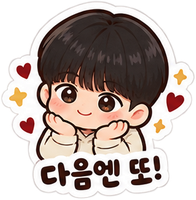
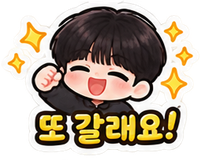
새 스티커 25종 교체, 별점 항목별 이유 질문, 질문 다양화
Claude-Session: https://claude.ai/code/session_0182RkLH2s9FgvYRPuFSwTt5

diff --git a/index.html b/index.html
@@ -358,68 +358,95 @@ const RATE = {
   exhibit:[['satisfaction','만족도'],['works','작품'],['curation','구성·동선'],['space','공간·연출'],['value','가성비']],
   escape: [['satisfaction','만족도'],['direction','연출'],['story','스토리'],['interior','인테리어'],['puzzle','문제 구성'],['difficulty','난이도'],['fear','공포도'],['activity','활동성']]
 };
+/* 공통으로 쓰는 질문 조각 */
+const VIEW_Q = [
+  { id:'view',  kind:'choice', ask:'좌석 시야는 어땠어요?', options:['완벽 시야 👍','괜찮았어요','살짝 아쉬움','많이 가렸어요'] },
+  { id:'viewMemo', kind:'text', optional:true, ask:'시야 얘기 한 마디 더?\n(단차, 가림, 거리감, 전광판 등)', ph:'예: 단차 좋아서 앞사람 머리 안 보였음' }
+];
+const MAIN_REVIEW = { id:'review', kind:'text', ask:'자, 이제 전체적으로 어땠어요?\n생각나는 대로 막 말해 주세요 ㅎㅎ', ph:'길게 써도 좋아요. 말투 그대로 살려서 글에 넣어 드려요' };
+const RATINGS_Q = { id:'ratings', kind:'ratings', ask:'별점 매겨 볼까요? ⭐ (5점 만점)\n다음에 항목별로 이유도 물어볼게요!' };
 const QUESTIONS = {
   musical: [
+    { id:'firstTime', kind:'choice', ask:'이 작품은 처음 봤어요?', options:['처음 봤어요','N번째 관람이에요'] },
+    { id:'whyPick', kind:'text', optional:true, ask:'이 작품을 보러 가게 된 계기는요?', ph:'예: 넘버가 너무 좋아서 / 친구 추천 / 캐스트 때문에' },
     { id:'seat',  kind:'text', optional:true, ask:'오늘 좌석은 어디였어요?', ph:'예: 1층 B구역 7열' },
-    { id:'view',  kind:'choice', ask:'좌석 시야는 어땠어요?', options:['완벽 시야 👍','괜찮았어요','살짝 아쉬움','많이 가렸어요'] },
-    { id:'viewMemo', kind:'text', optional:true, ask:'시야 얘기 한 마디 더? (단차, 가림 등)', ph:'예: 단차 좋아서 앞사람 머리 안 보였음' },
+    ...VIEW_Q,
     { id:'cast',  kind:'text', optional:true, ask:'오늘 캐스트는 누구였어요?', ph:'예: 홍길동, 김철수, 이영희' },
-    { id:'bestActor',  kind:'text', optional:true, ask:'제일 기억에 남는 배우와 이유는요?', ph:'예: OOO 배우 고음 미쳤음ㅋㅋ' },
-    { id:'bestNumber', kind:'text', optional:true, ask:'가장 좋았던 넘버(노래 제목)는?\n가사는 빼고 제목만!', ph:'예: 넘버 제목' },
-    { id:'review', kind:'text', ask:'전체적으로 어땠어요?\n생각나는 대로 막 말해 주세요 ㅎㅎ', ph:'말투 그대로 살려서 글에 넣어 드려요' },
-    { id:'ratings', kind:'ratings', ask:'별점 매겨 볼까요? ⭐ (5점 만점)' },
+    { id:'bestActor',  kind:'text', optional:true, ask:'제일 기억에 남는 배우와 이유는요?', ph:'예: OOO 배우 고음 미쳤음ㅋㅋ 감정선도 섬세' },
+    { id:'bestNumber', kind:'text', optional:true, ask:'가장 좋았던 넘버(노래 제목)는요?\n가사는 빼고 제목 + 좋았던 이유!', ph:'예: 넘버 제목, 앙상블 합창이 터질 때 소름' },
+    { id:'emotion', kind:'text', optional:true, ask:'감정이 가장 크게 움직인 순간은요?\n(스포 없이 느낌만!)', ph:'예: 2막 후반 조명 바뀌는 순간 눈물 핑' },
+    { id:'expect', kind:'text', optional:true, ask:'보기 전 기대랑 비교하면 어땠어요?', ph:'예: 무거울 줄 알았는데 생각보다 유쾌했음' },
+    MAIN_REVIEW, RATINGS_Q,
+    { id:'preTip', kind:'text', optional:true, ask:'보러 갈 사람에게 미리 알려주고 싶은 팁은요?\n(예습, 줄거리, 오페라글라스, 인터미션 등)', ph:'예: 넘버 2~3곡 미리 듣고 가면 몰입 200%' },
     { id:'rewatch', kind:'choice', ask:'재관람 의사는?', options:['무조건 재관람!','다른 캐스트로 또 볼래요','한 번이면 충분','아직 모르겠어요'] },
     ...COMMON_END
   ],
   concert: [
+    { id:'firstTime', kind:'choice', ask:'이 아티스트 콘서트는 처음이에요?', options:['첫 콘서트예요','두 번 이상 가봤어요'] },
+    { id:'whyPick', kind:'text', optional:true, ask:'이번 공연에 가게 된 계기는요?', ph:'예: 데뷔 때부터 팬 / 친구 따라 입덕 / 티켓팅 성공!' },
     { id:'seat',  kind:'text', optional:true, ask:'오늘 좌석은 어디였어요?', ph:'예: 스탠딩 B구역 / 2층 15구역 3열' },
-    { id:'view',  kind:'choice', ask:'좌석 시야는 어땠어요?', options:['완벽 시야 👍','괜찮았어요','살짝 아쉬움','많이 가렸어요'] },
-    { id:'viewMemo', kind:'text', optional:true, ask:'시야 얘기 한 마디 더? (전광판, 돌출 무대 등)', ph:'예: 돌출 무대 바로 앞이라 눈앞에서 봄ㅋㅋ' },
+    ...VIEW_Q,
     { id:'cast',  kind:'text', optional:true, ask:'출연 아티스트·게스트는 누구였어요?', ph:'예: 아티스트 이름, 깜짝 게스트' },
-    { id:'bestSong',  kind:'text', optional:true, ask:'최고의 무대(곡 제목)는?\n가사는 빼고 제목만!', ph:'예: 곡 제목 + 좋았던 이유' },
-    { id:'bestScene', kind:'text', optional:true, ask:'잊지 못할 순간이 있었나요?\n(떼창, 멘트, 이벤트 등)', ph:'예: 마지막 곡 떼창에서 울컥함ㅠ' },
-    { id:'review', kind:'text', ask:'전체적으로 어땠어요?\n생각나는 대로 막 말해 주세요 ㅎㅎ', ph:'말투 그대로 살려서 글에 넣어 드려요' },
+    { id:'bestSong',  kind:'text', optional:true, ask:'최고의 무대(곡 제목)는요?\n가사는 빼고 제목 + 좋았던 이유!', ph:'예: 곡 제목, 편곡이 완전 달라서 소름' },
+    { id:'bestScene', kind:'text', optional:true, ask:'잊지 못할 순간이 있었나요?\n(떼창, 이벤트, 깜짝 무대 등)', ph:'예: 마지막 곡 떼창에서 울컥함ㅠ' },
+    { id:'ment', kind:'text', optional:true, ask:'기억에 남는 멘트나 토크가 있었어요?\n(요약해서!)', ph:'예: 다음 투어 때 꼭 다시 오겠다고 함' },
+    { id:'fanEvent', kind:'text', optional:true, ask:'응원법·관객 분위기는 어땠어요?', ph:'예: 응원봉 파도타기 장관이었음' },
+    MAIN_REVIEW, RATINGS_Q,
     { id:'tipInfo', kind:'text', optional:true, ask:'다음에 갈 사람을 위한 꿀팁은?\n(MD 줄, 입장, 교통 등)', ph:'예: MD는 전날 가야 안 기다림' },
-    { id:'ratings', kind:'ratings', ask:'별점 매겨 볼까요? ⭐ (5점 만점)' },
+    { id:'venueInfo', kind:'text', optional:true, ask:'공연장 시설은 어땠어요?\n(화장실, 물품보관, 대기 공간 등)', ph:'예: 물품보관함 금방 차니까 일찍 가기' },
     { id:'rewatch', kind:'choice', ask:'다음 공연도 갈 거예요?', options:['다음 투어 무조건!','막콘도 가고 싶어요','한 번이면 충분','아직 모르겠어요'] },
     ...COMMON_END
   ],
   play: [
+    { id:'firstTime', kind:'choice', ask:'이 작품은 처음 봤어요?', options:['처음 봤어요','N번째 관람이에요'] },
+    { id:'whyPick', kind:'text', optional:true, ask:'이 연극을 보러 가게 된 계기는요?', ph:'예: 평이 좋아서 / 배우 팬이라서' },
     { id:'seat',  kind:'text', optional:true, ask:'오늘 좌석은 어디였어요?', ph:'예: C열 5번' },
-    { id:'view',  kind:'choice', ask:'좌석 시야는 어땠어요?', options:['완벽 시야 👍','괜찮았어요','살짝 아쉬움','많이 가렸어요'] },
+    ...VIEW_Q,
     { id:'cast',  kind:'text', optional:true, ask:'오늘 캐스트는 누구였어요?', ph:'예: 홍길동, 김철수' },
     { id:'bestActor', kind:'text', optional:true, ask:'제일 기억에 남는 배우와 이유는요?', ph:'예: OOO 배우 눈빛 연기 소름' },
-    { id:'bestScene', kind:'text', optional:true, ask:'가장 기억에 남는 장면은? (스포 없이!)', ph:'예: 후반부 독백 장면' },
-    { id:'review', kind:'text', ask:'전체적으로 어땠어요?\n생각나는 대로 막 말해 주세요 ㅎㅎ', ph:'말투 그대로 살려서 글에 넣어 드려요' },
-    { id:'ratings', kind:'ratings', ask:'별점 매겨 볼까요? ⭐ (5점 만점)' },
+    { id:'bestScene', kind:'text', optional:true, ask:'가장 기억에 남는 장면은요? (스포 없이!)', ph:'예: 후반부 독백 장면' },
+    { id:'emotion', kind:'text', optional:true, ask:'웃음·눈물·긴장… 감정이 크게 움직인 순간은요?', ph:'예: 중반 코믹 장면에서 객석 전체가 빵 터짐ㅋㅋ' },
+    { id:'message', kind:'text', optional:true, ask:'보고 나서 마음에 남은 생각이나 메시지가 있다면?', ph:'예: 가족한테 연락하고 싶어지는 극' },
+    { id:'expect', kind:'text', optional:true, ask:'보기 전 기대랑 비교하면 어땠어요?', ph:'예: 소극장이라 걱정했는데 몰입감 최고' },
+    MAIN_REVIEW, RATINGS_Q,
+    { id:'preTip', kind:'text', optional:true, ask:'보러 갈 사람에게 미리 알려주고 싶은 팁은요?\n(줄거리 예습, 관객 참여, 좌석 등)', ph:'예: 앞줄은 관객 참여 있을 수 있음ㅋㅋ' },
     { id:'rewatch', kind:'choice', ask:'재관람 의사는?', options:['무조건 재관람!','다른 캐스트로 또 볼래요','한 번이면 충분','아직 모르겠어요'] },
     ...COMMON_END
   ],
   movie: [
+    { id:'whyPick', kind:'text', optional:true, ask:'이 영화를 고른 이유는요?', ph:'예: 예고편에 꽂혀서 / 감독 팬 / 평점 보고' },
     { id:'format', kind:'choice', ask:'어떤 관에서 봤어요?', options:['일반관','IMAX','4DX','돌비 시네마','기타 특별관'] },
     { id:'seat',   kind:'text', optional:true, ask:'좌석은 어디쯤이었어요?', ph:'예: G열 가운데' },
-    { id:'bestScene', kind:'text', optional:true, ask:'제일 기억에 남는 장면은? (스포 없이!)', ph:'예: 중반 추격 장면 음향 대박' },
+    { id:'bestScene', kind:'text', optional:true, ask:'제일 기억에 남는 장면은요? (스포 없이!)', ph:'예: 중반 추격 장면 음향 대박' },
     { id:'bestActor', kind:'text', optional:true, ask:'눈에 띈 배우가 있었나요?', ph:'예: OOO 연기 진짜 좋았음' },
-    { id:'review', kind:'text', ask:'전체적으로 어땠어요?\n생각나는 대로 막 말해 주세요 ㅎㅎ', ph:'말투 그대로 살려서 글에 넣어 드려요' },
+    { id:'emotion', kind:'text', optional:true, ask:'웃음·눈물·긴장… 감정이 크게 움직인 순간은요?', ph:'예: 후반부에 극장 전체가 숨죽임' },
+    { id:'message', kind:'text', optional:true, ask:'보고 나서 남은 생각이나 메시지가 있다면?', ph:'예: 오래 여운이 남는 엔딩' },
+    { id:'expect', kind:'text', optional:true, ask:'보기 전 기대랑 비교하면 어땠어요?', ph:'예: 예고편보다 훨씬 감성적이었음' },
+    MAIN_REVIEW,
     { id:'cookie', kind:'choice', ask:'쿠키 영상 있었어요?', options:['쿠키 있음 (끝까지 앉아 있기!)','쿠키 없음','확인 못 했어요'] },
-    { id:'ratings', kind:'ratings', ask:'별점 매겨 볼까요? ⭐ (5점 만점)' },
-    { id:'rewatch', kind:'choice', ask:'N차 관람 의사는?', options:['N차 관람 각!','OTT로 다시 볼래요','한 번이면 충분'] },
+    RATINGS_Q,
+    { id:'preTip', kind:'text', optional:true, ask:'보기 전에 알아두면 좋은 점은요?\n(전편, 원작, 관 추천 등)', ph:'예: 1편 안 봐도 되지만 보면 더 재밌음' },
+    { id:'rewatch', kind:'choice', ask:'N차 관람 의사는?', options:['N차 관람 각!','OTT로 다시 볼래요','한 번이면 충분','아직 모르겠어요'] },
     ...COMMON_END
   ],
   exhibit: [
+    { id:'whyPick', kind:'text', optional:true, ask:'이 전시에 가게 된 계기는요?', ph:'예: 인스타에서 보고 / 좋아하는 작가라서' },
     { id:'companion', kind:'choice', ask:'누구랑 다녀왔어요?', options:['혼자','친구와','연인과','가족과','아이와'] },
     { id:'stay', kind:'choice', ask:'관람 시간은 얼마나 걸렸어요?', options:['30분 이내','1시간 정도','1시간 반','2시간 이상'] },
     { id:'crowd', kind:'choice', ask:'사람은 많았어요?', options:['한산했어요','적당했어요','붐볐어요','줄 서서 봤어요'] },
     { id:'photoRule', kind:'choice', ask:'사진 촬영은 가능했어요?', options:['전체 촬영 가능','일부 구역만 가능','촬영 불가'] },
     { id:'bestWork', kind:'text', optional:true, ask:'가장 인상 깊은 작품과 이유는요?', ph:'예: 마지막 방 미디어아트, 빛이 쏟아지는 느낌' },
+    { id:'section', kind:'text', optional:true, ask:'제일 좋았던 공간·섹션은요?', ph:'예: 2층 거울방, 사진도 제일 잘 나옴' },
     { id:'docent', kind:'choice', optional:true, ask:'도슨트나 오디오 가이드는요?', options:['도슨트 들었어요','오디오 가이드 썼어요','안 썼어요'] },
-    { id:'review', kind:'text', ask:'전체적으로 어땠어요?\n생각나는 대로 막 말해 주세요 ㅎㅎ', ph:'말투 그대로 살려서 글에 넣어 드려요' },
+    { id:'feel', kind:'text', optional:true, ask:'관람하고 나서 든 생각이나 기분은요?', ph:'예: 마음이 차분해지고 힐링 됐음' },
+    MAIN_REVIEW, RATINGS_Q,
+    { id:'goodsInfo', kind:'text', optional:true, ask:'굿즈샵은 어땠어요? 산 게 있다면?', ph:'예: 엽서 세트 샀는데 퀄 좋음, 가격은 좀 셈' },
     { id:'tipInfo', kind:'text', optional:true, ask:'다음에 갈 사람을 위한 꿀팁은?\n(할인, 주차, 한산한 시간 등)', ph:'예: 평일 오전이 제일 한산함' },
-    { id:'ratings', kind:'ratings', ask:'별점 매겨 볼까요? ⭐ (5점 만점)' },
-    { id:'rewatch', kind:'choice', ask:'또 가고 싶어요?', options:['또 가고 싶어요!','한 번이면 충분','지인에게 추천할래요'] },
+    { id:'rewatch', kind:'choice', ask:'또 가고 싶어요?', options:['또 가고 싶어요!','한 번이면 충분','지인에게 추천할래요','아직 모르겠어요'] },
     ...COMMON_END
   ],
   escape: [
+    { id:'whyPick', kind:'text', optional:true, ask:'이 테마를 고른 이유는요?', ph:'예: 인생테마 리스트에 있어서 / 스토리 평이 좋아서' },
     { id:'players', kind:'choice', ask:'몇 명이서 했어요?', options:['2인','3인','4인','5인+','혼방'] },
     { id:'career',  kind:'text', optional:true, ask:'방탈출 경력도 적어 둘까요?', ph:'예: 200방 이상 · 50방 이상' },
     { id:'result',  kind:'choice', ask:'결과는?! 🥁', options:['탈출 성공 🏆','탈출 실패'] },
@@ -427,12 +454,40 @@ const QUESTIONS = {
     { id:'remain',  kind:'text', optional:true, ask:'남은 시간은요?', ph:'예: 5분 30초 (기록 안 했으면 건너뛰기)', cond:a=>a.result==='탈출 성공 🏆' },
     { id:'themeTime', kind:'number', optional:true, ask:'테마 시간은 총 몇 분이었어요?', unit:'분', ph:'60' },
     { id:'recommendOK', kind:'choice', ask:'추천 여부는?', options:['추천해요','보통이에요','비추천해요'] },
-    { id:'ratings', kind:'ratings', ask:'항목별 점수! ⭐ (5점 만점, 0 = 없음)' },
-    { id:'review', kind:'text', ask:'스포 없이 솔직하게 어땠어요?\n(문제·장치·반전·방 순서는 빼고!)', ph:'말투 그대로 살려서 글에 넣어 드려요' },
+    { id:'firstImpression', kind:'text', optional:true, ask:'들어가자마자 첫인상은 어땠어요?\n(스포 없이 분위기만!)', ph:'예: 문 열자마자 와… 소리 나옴' },
+    { id:'bestMoment', kind:'text', optional:true, ask:'가장 짜릿했던 순간은요?\n(장치·정답은 빼고 느낌만!)', ph:'예: 막혔다가 한 번에 풀리는 순간 소름' },
+    MAIN_REVIEW, RATINGS_Q,
+    { id:'staff', kind:'text', optional:true, ask:'매장이나 직원 응대는 어땠어요?', ph:'예: 브리핑 친절, 대기실 깔끔' },
     { id:'tip', kind:'text', optional:true, ask:'인원 팁이 있다면?', ph:'예: 2인은 빠듯, 3인 추천' },
+    { id:'clothes', kind:'text', optional:true, ask:'복장이나 준비물 팁은요?', ph:'예: 활동성 있으니 바지 추천' },
     ...COMMON_END
   ]
 };
+/* 별점 다음에 항목별로 이유를 묻는 질문 (점수를 넣어서 자동으로 만들어짐) */
+const WHY = {
+  acting:   ['노래·연기는 어땠어요?', '예: 성량 압도적, 감정선이 섬세해서 몰입됨'],
+  stage:    ['무대·연출에서 기억나는 건요?', '예: 조명 전환, 무대 장치, 세트 디테일'],
+  story:    ['스토리는 어땠어요? (스포 없이!)', '예: 전개가 빠르고 개연성 탄탄, 결말 여운'],
+  sound:    ['음향은 어땠어요?', '예: 대사 잘 들림, 밴드 소리 웅장'],
+  live:     ['라이브 실력은요?', '예: 음원보다 더 잘함, 고음 안정적'],
+  setlist:  ['셋리스트 흐름은 어땠어요?', '예: 신곡·명곡 균형 좋음, 앵콜 구성 최고'],
+  av:       ['영상·음향은요?', '예: IMAX 화면 꽉 참, 사운드 진동 대박'],
+  direction:['연출은 어땠어요? (스포 없이!)', '예: 효과음·조명 타이밍이 몰입감 살려줌'],
+  interior: ['인테리어는요?', '예: 소품 디테일 미쳤음, 테마 세계관에 들어온 느낌'],
+  puzzle:   ['문제 구성은요? (정답·장치는 빼고!)', '예: 참신한 문제 많고 자물쇠 비율 적당'],
+  difficulty:['난이도는 어땠어요?', '예: 초반 쉽고 후반에 확 어려워짐, 입문자는 힌트 필수'],
+  fear:     ['공포도는요?', '예: 깜놀은 없고 분위기로 무서움, 극쫄도 가능'],
+  activity: ['활동성은요?', '예: 많이 움직임, 무릎 조심ㅋㅋ'],
+  works:    ['작품들은 어땠어요?', '예: 작품 수 많고 퀄리티 좋음'],
+  curation: ['구성·동선은요?', '예: 섹션 흐름 자연스럽고 설명 패널 친절'],
+  space:    ['공간·연출은요?', '예: 조명·음악이 작품이랑 잘 어울림'],
+  value:    ['가성비는요?', '예: 이 가격에 이 퀄리티면 만족, 얼리버드 추천']
+};
+function whyQuestions(ev){
+  const R = (ev.answers || {}).ratings; if (!R) return [];
+  return RATE[ev.type].filter(([k]) => k !== 'satisfaction' && R[k] !== undefined && !(['fear','activity'].includes(k) && Number(R[k]) === 0))
+    .map(([k, l]) => { const w = (k === 'acting' && ev.type !== 'musical') ? ['연기는 어땠어요?', '예: 눈빛 연기 소름, 대사 전달력 좋음'] : (WHY[k] || ['어땠어요?', '']); return { id:'why_' + k, kind:'text', optional:true, ask:`${l} ★${Number(R[k]).toFixed(1)}점!\n${w[0]}`, ph:w[1] }; });
+}
 /* 질문 사이에 넣는 짧은 리액션 (답할 때마다 돌아가며 사용) */
 const REACT = ['오 좋아요! ','기록 완료 ✍ ','ㅎㅎ 그렇군요! ','완전 생생해요 👍 ','좋아요, 다음! '];
 
@@ -441,13 +496,14 @@ const REACT = ['오 좋아요! ','기록 완료 ✍ ','ㅎㅎ 그렇군요! '
    --------------------------------------------------------------- */
 const STICKERS = {
   '내돈내산':'naedon', '협찬':'sponsor', '총평':'summary', '꽃길':'flower', '추천해요':'recommend', '아쉬워요':'sorry',
-  '인생작':'best', '눈물 줄줄':'tears', '소름':'chills', '빵 터짐':'lol', '시야 체크':'view', '꿀팁':'tip', '재관람 각':'rewatch',
-  '탈출 성공':'escape_ok', '탈출 실패':'escape_fail', '힌트 찬스':'hint',
-  '콘서트 후기':'concert', '영화 후기':'movie', '방탈출 후기':'escape', '다녀왔어요':'visited', '다음엔 또!':'again'
+  '인생작':'best', '재밌다!':'fun', '힐링중':'healing', '영화보러가요':'gomovie', '콘서트는 못참지!':'goconcert', '방탈출 GO!':'goescape',
+  '고민중...':'thinking', '헉!':'wow', '눈물나...':'tears', '사랑해요':'love', '텅장주의!':'broke', '비추천':'notrec',
+  '또 갈래요!':'again', '별 다섯개!':'fivestar', '공연 후기':'show', '영화 후기':'movie', '콘서트 후기':'concert', '방탈출 후기':'escape', '한줄평':'oneline'
 };
-const TYPE_STICKER = { exhibit:'다녀왔어요', musical:'다녀왔어요', play:'다녀왔어요', concert:'콘서트 후기', movie:'영화 후기', escape:'방탈출 후기' };
+const TYPE_STICKER = { musical:'공연 후기', play:'공연 후기', concert:'콘서트 후기', movie:'영화 후기', escape:'방탈출 후기', exhibit:'힐링중' };
+const GO_STICKER = { movie:'영화보러가요', concert:'콘서트는 못참지!', escape:'방탈출 GO!' };
 const stickerOf = line => { const m = String(line).match(/^\[스티커: (.+)\]$/); return m && STICKERS[m[1]] ? STICKERS[m[1]] : null; };
-const stickerURL = key => new URL(`stickers/${key}.png?v=2`, location.href).href;   // ?v=2: 작게 줄인 새 스티커를 받아오도록
+const stickerURL = key => new URL(`stickers/${key}.png?v=3`, location.href).href;   // ?v=2: 작게 줄인 새 스티커를 받아오도록
 
 /* ---------------------------------------------------------------
    4. 저장소: 일정(localStorage) + 사진(IndexedDB, 실패 시 메모리)
@@ -545,6 +601,9 @@ function softenEnding(core){
   if (/[가-힣]임$/.test(core)){ const base = core.slice(0, -1); return base + (hasBatchim(base.slice(-1)) ? '이에요' : '예요'); }
   for (const [re, rep] of END_RULES) if (re.test(core)) return core.replace(re, rep);
   // 과거형(받침 ㅆ: 쳤·갔·봤·됐…) + 음/다/어 → ~어요  (예: 미쳤음 → 미쳤어요)
+  // X음 (X에 받침) → X았어요/X었어요  예: 남음 → 남았어요
+  const mm = core.match(/([가-힣])음$/);
+  if (mm){ const c = mm[1].charCodeAt(0) - 0xAC00; if ((c % 28) !== 0){ const v = Math.floor((c % 588) / 28); return core.slice(0, -1) + ([0, 8].includes(v) ? '았어요' : '었어요'); } }
   const pre = core.slice(-2, -1).charCodeAt(0);
   if (/[음다어]$/.test(core) && pre >= 0xAC00 && pre <= 0xD7A3 && (pre - 0xAC00) % 28 === 20) return core.slice(0, -1) + '어요';
   return core;                                                     // 모르는 어미는 원문 그대로 (말투 보존)
@@ -636,33 +695,55 @@ function buildPost(ev, photos){
   /* --- 스티커 자동 배치 규칙 ---
      · 같은 스티커는 한 번만 · 감정 스티커는 후기 내용의 단어를 보고 1개만 고름 */
   const usedStk = new Set();
-  const sticker = label => { if (usedStk.has(label)) return; usedStk.add(label); blank(); push(`[스티커: ${label}]`); };
-  const allText = [A.review, A.bestActor, A.bestNumber, A.bestSong, A.bestScene, A.oneLine].filter(Boolean).join(' ');
+  const lastLine = () => { for (let i = body.length - 1; i >= 0; i--) if (body[i] !== '') return body[i]; return ''; };
+  const sticker = (label, force) => {
+    if (!label || usedStk.has(label)) return;
+    if (!force && /^\[스티커:/.test(lastLine())) return;          // 바로 앞이 스티커면 생략 (연달아 붙으면 부담스러워서)
+    usedStk.add(label); blank(); push(`[스티커: ${label}]`);
+  };
+  const allText = Object.entries(A).filter(([k, v]) => typeof v === 'string' && !['sponsor','sponsorWho','seat','cast'].includes(k)).map(([, v]) => v).join(' ');
   const count = re => (allText.match(re) || []).length;
-  const mood = [['눈물 줄줄', count(/눈물|울컥|울었|오열|펑펑|ㅠㅠ|ㅜㅜ/g)], ['소름', count(/소름|전율|닭살|미쳤|미친|압도/g)], ['빵 터짐', count(/ㅋㅋㅋ|웃겼|웃김|빵\s?터|개웃|폭소/g)]]
-    .filter(m => m[1] > 0).sort((a, b) => b[1] - a[1])[0];
-  const moodSticker = () => { if (mood) sticker(mood[0]); };
+  const mood = [['눈물나...', count(/눈물|울컥|울었|오열|펑펑|ㅠㅠ|ㅜㅜ/g)], ['헉!', count(/소름|전율|닭살|미쳤|미친|압도|헉|충격|대박/g)],
+    ['재밌다!', count(/ㅋㅋㅋ|웃겼|웃김|빵\s?터|개웃|폭소|재밌|재미있|꿀잼/g)], ['사랑해요', count(/사랑|최애|행복|설렘|설렜|입덕/g)], ['힐링중', count(/힐링|편안|여유|잔잔|평온|차분/g)]]
+    .filter(m => m[1] > 0).sort((a, b) => b[1] - a[1]);
+  const moodSticker = (i = 0) => { const m = mood.filter(x => !usedStk.has(x[0]))[0]; if (m) sticker(m[0]); };
   const sat = Number(R.satisfaction);
-  const scoreSticker = () => { if (sat >= 4.5) sticker('인생작'); else if (R.satisfaction !== undefined && sat <= 2.5) sticker('아쉬워요'); };
+  const scoreSticker = () => { if (sat >= 5) sticker('별 다섯개!'); else if (sat >= 4.5) sticker('인생작'); else if (R.satisfaction !== undefined && sat <= 2.5) sticker('아쉬워요'); };
   const rewatchYes = /무조건|또 볼|또 가고|다른 캐스트|N차|다음 투어|막콘/.test(A.rewatch || '');
+  const tipText = [A.tipInfo, A.goodsInfo, A.venueInfo, A.preTip].filter(Boolean).join(' ');
+  const brokeYes = /굿즈|MD|샀|구매|지름|텅장|플미|비싸|비쌈/.test(tipText) || (R.value !== undefined && Number(R.value) <= 2.5);
+  /* 별점 다음: 항목별로 왜 그 점수를 줬는지 */
+  const whyLines = () => {
+    const rows = RATE[ev.type].filter(([k]) => A['why_' + k]);
+    if (!rows.length) return;
+    section('항목별 이야기');
+    rows.forEach(([k, l]) => { blank(); push(`▶ ${l} ${stars(R[k])}`); push(...polishPara(A['why_' + k])); });
+  };
+  /* 꿀팁 모음 (짧으면 한 줄, 길면 문단) */
+  const tipLines = (title, list) => {
+    const rows = list.filter(([v]) => v); if (!rows.length) return;
+    if (brokeYes) sticker('텅장주의!');
+    section(title);
+    rows.forEach(([v, l]) => { if (isShort(v)) push(`▶ ${l}: ${v}`); else { blank(); push(`▶ ${l}`); push(...polishPara(v)); } });
+  };
   const sponsored = A.sponsor === '초대·협찬 받음';
   const disclose = sponsored ? `이 글은 ${josa(A.sponsorWho || '초대권', '을', '를')} 제공받아 작성했어요` : '';
   const ratingLines = () => { section('평점'); body[body.length - 1] += ' (5점 만점)'; RATE[ev.type].forEach(([k, l]) => { if (R[k] !== undefined) push(`▶ ${l} ${stars(R[k])}`); }); scoreSticker(); };
   const recLines = () => {
     if (A.recommend){ sticker('추천해요'); section('이런 분께 추천해요'); splitList(A.recommend).forEach(x => push('▶ ' + x)); }
-    if (A.notRecommend){ sticker('아쉬워요'); section('이런 분께는 비추천이에요'); splitList(A.notRecommend).forEach(x => push('▶ ' + x)); }
+    if (A.notRecommend){ sticker('비추천'); section('이런 분께는 비추천이에요'); splitList(A.notRecommend).forEach(x => push('▶ ' + x)); }
   };
   const ending = () => {
-    blank(); push('[스티커: 총평]'); blank();
+    if (A.oneLine){ sticker('한줄평', true); blank(); }
     if (A.oneLine) push(`─── 한줄 요약: ${polishSentence(A.oneLine)}`);
     if (disclose){ blank(); push(disclose); }
     blank(); push('[스티커: 꽃길]');
   };
   const opening = lines => {
-    sticker(TYPE_STICKER[ev.type]);                       // 글 맨 위: 종류 스티커 (콘서트 후기 / 영화 후기 …)
+    sticker(TYPE_STICKER[ev.type], true);                 // 글 맨 위: 종류 스티커 (콘서트 후기 / 영화 후기 …)
     blank(); push('안녕하세요!', ...lines);
     if (disclose){ blank(); push(disclose); }
-    sticker(sponsored ? '협찬' : '내돈내산');
+    sticker(sponsored ? '협찬' : '내돈내산', true);
   };
   const short = String(A.oneLine || '').replace(/[.!~…\s]+$/, '');
   const castNames = splitList(A.cast);
@@ -691,15 +772,21 @@ function buildPost(ev, photos){
       push(`▶ 결과: ${ok ? '탈출 성공 🏆' : '탈출 실패'}${extra ? ` (${extra})` : ''}`);
     }
     if (A.recommendOK) push(`▶ 추천 여부: ${A.recommendOK}`);
-    if (A.result) sticker(ok ? '탈출 성공' : '탈출 실패');
+    sticker(A.recommendOK === '보통이에요' ? '고민중...' : GO_STICKER.escape);
     photoLines('info');
     ratingLines();
+    whyLines();
+    sticker('총평');
     section('스포 없는 후기');
+    voice(A.whyPick, '고른 이유', ['이 테마를 고른 이유는요', '먼저 이 테마를 고른 이유!']);
+    voice(A.firstImpression, '첫인상', ['입장하자마자 첫인상은요', '문 열고 들어가자마자']);
     if (ok && /^(0분|\d+초)/.test(String(A.remain || '').trim())) push('1분도 안 남기고 아슬아슬하게 탈출해서', '마지막엔 심장 터지는 줄 알았어요 ㅋㅋ', '');
-    push(...polishPara(A.review));
+    voice(A.bestMoment, '짜릿했던 순간', ['가장 짜릿했던 순간은요 👍', '이 순간은 진짜 소름이었어요']);
+    blank(); push(...polishPara(A.review));
     moodSticker();
+    voice(A.staff, '매장·직원', ['매장 얘기도 해볼게요', '매장이랑 직원분들은요']);
     photoLines('after');
-    if (A.tip){ sticker(Number(A.hints) >= 2 ? '힌트 찬스' : '꿀팁'); section('인원 팁'); push(...polishPara(A.tip)); }
+    tipLines('플레이 꿀팁', [[A.tip, '인원'], [A.clothes, '복장·준비물']]);
     recLines(); ending();
     // 제목 키워드: 평점·인원에서 1~2개
     const kw = [];
@@ -730,27 +817,39 @@ function buildPost(ev, photos){
       if (A.photoRule) push(`▶ 사진 촬영: ${A.photoRule}`);
       if (A.docent && A.docent !== '안 썼어요') push(`▶ 해설: ${A.docent.replace(/ (들었|썼)어요$/, ' 이용')}`);
     }
+    if (A.firstTime) push(`▶ 관람: ${({ '처음 봤어요':'첫 관람', 'N번째 관람이에요':'N차 관람', '첫 콘서트예요':'첫 콘서트', '두 번 이상 가봤어요':'두 번 이상' })[A.firstTime] || A.firstTime}`);
     if (A.seat) push(`▶ 좌석: ${A.seat}`);
     if (A.cast) push(`▶ ${isConcert ? '출연' : '캐스트'}: ${castNames.join(', ')}`);
+    sticker(GO_STICKER[ev.type]);
     photoLines('info');
     if (!isMovie && (A.view || A.viewMemo || photos.some(p => p.key === 'seatview'))){
-      section('좌석 시야'); sticker('시야 체크'); photoLines('seat');
+      section('좌석 시야'); photoLines('seat');
       if (A.view) push(`▶ 시야: ${A.view}`);
       if (A.viewMemo) push(...polishPara(A.viewMemo));
     } else if (isMovie) { photoLines('seat'); }
     ratingLines();
+    whyLines();
+    sticker('총평');
     section(isMovie ? '스포 없는 관람 후기' : isConcert ? '공연 후기' : '관람 후기');
+    voice(A.whyPick, '보러 간 이유', ['먼저 보러 가게 된 계기는요', '이걸 고른 이유부터 말해볼게요', '사실 이번 관람은요']);
+    voice(A.expect, '기대 vs 실제', ['솔직히 보기 전엔요', '기대했던 것과 비교하면요']);
+    if (isExhibit) voice(A.section, '좋았던 공간', ['제일 좋았던 공간은요', '여기는 꼭 들러 보세요']);
     if (isExhibit) voice(A.bestWork, '인상 깊은 작품', ['가장 인상 깊었던 작품은요 👍', '제일 오래 머물렀던 작품은요', '이 작품은 꼭 보셨으면 해요']);
     if (isConcert) voice(A.bestSong, '최고의 무대', ['오늘 최고의 무대는요 👍', '셋리스트 중에 하나만 꼽자면', '이 무대는 꼭 얘기하고 싶어요']);
     voice(A.bestActor, '기억에 남는 배우', ['오늘 제일 기억에 남는 배우는요', '배우 얘기부터 해볼게요 ㅎㅎ', '먼저 배우 이야기!']);
     if (ev.type === 'musical') voice(A.bestNumber, '최애 넘버', ['가장 좋았던 넘버는요 👍', '넘버 얘기도 빼놓을 수 없죠', '최애 넘버 하나 꼽자면']);
     else voice(A.bestScene, '기억에 남는 장면', ['가장 기억에 남는 장면은요', '명장면 하나 꼽자면', '이 장면은 꼭 얘기하고 싶어요']);
+    if (isConcert){ voice(A.ment, '기억에 남는 멘트', ['기억에 남는 멘트도 있었어요', '토크 시간엔요']); voice(A.fanEvent, '관객 분위기', ['관객 분위기도 최고였는데요', '응원 얘기도 빼놓을 수 없죠']); }
+    voice(A.emotion, '감정이 움직인 순간', ['제일 마음이 움직였던 순간은요', '이때 감정이 확 올라왔어요']);
     blank(); push(...polishPara(A.review));
     moodSticker();
+    voice(A.message, '남은 생각', ['보고 나서 남은 생각은요', '극장을 나오면서 든 생각은요']);
+    if (isExhibit) voice(A.feel, '관람 후 느낌', ['다 보고 나오니까요', '관람을 마치고 나서는요']);
+    moodSticker();
     photoLines('after');
-    if ((isConcert || isExhibit) && A.tipInfo){ section('관람 꿀팁'); sticker('꿀팁'); push(...polishPara(A.tipInfo)); }
+    tipLines('관람 꿀팁', [[A.preTip, '보기 전에'], [A.tipInfo, '꿀팁'], [A.venueInfo, '공연장 시설'], [A.goodsInfo, '굿즈']]);
     if (isMovie && A.cookie){ section('쿠키 영상'); push(`▶ ${A.cookie}`); }
-    if (A.rewatch){ section(isMovie ? 'N차 관람 의사' : isConcert ? '다음 공연 의사' : isExhibit ? '재방문 의사' : '재관람 의사'); if (rewatchYes) sticker(isConcert ? '다음엔 또!' : '재관람 각'); push(`▶ ${A.rewatch}`); }
+    if (A.rewatch){ section(isMovie ? 'N차 관람 의사' : isConcert ? '다음 공연 의사' : isExhibit ? '재방문 의사' : '재관람 의사'); if (rewatchYes) sticker('또 갈래요!'); else if (/모르겠/.test(A.rewatch)) sticker('고민중...'); push(`▶ ${A.rewatch}`); }
     recLines(); ending();
     const md = ev.date.slice(5).replace('-', '.');
     title = isMovie
@@ -1115,8 +1214,16 @@ async function removePhoto(pid){
 }
 
 /* ---------- 11-2. 💬 후기 인터뷰 탭 (채팅) ---------- */
-const findQ = (type, id) => QUESTIONS[type].find(q => q.id === id);
-const visibleQs = ev => QUESTIONS[ev.type].filter(q => !q.cond || q.cond(ev.answers || {}));
+const visibleQs = ev => {
+  const list = [];
+  QUESTIONS[ev.type].forEach(q => {
+    if (q.cond && !q.cond(ev.answers || {})) return;
+    list.push(q);
+    if (q.id === 'ratings') list.push(...whyQuestions(ev));    // 별점 바로 다음에 항목별 이유 질문
+  });
+  return list;
+};
+const findQ = (type, id) => visibleQs(curEv()).find(q => q.id === id) || QUESTIONS[type].find(q => q.id === id);
 const answered = (ev, q) => ev.answers && ev.answers[q.id] !== undefined;
 function answerText(q, v){
   if (v === '' || v === null) return '(건너뜀)';
@@ -1556,7 +1663,7 @@ function celebrate(emoji, text, big){
      '새 버전' 안내를 띄움 → 누르면 최신 버전으로 새로고침 (데이터는 그대로 유지)
    - 앱을 열 때 / 다시 화면에 돌아올 때 / 30분마다 확인
    --------------------------------------------------------------- */
-const APP_VERSION = '2026.10.26-6';
+const APP_VERSION = '2026.11.25-1';
 async function checkUpdate(){
   if (!/^https?:/.test(location.protocol)) return;            // 파일로 열었을 땐 건너뜀
   try{
